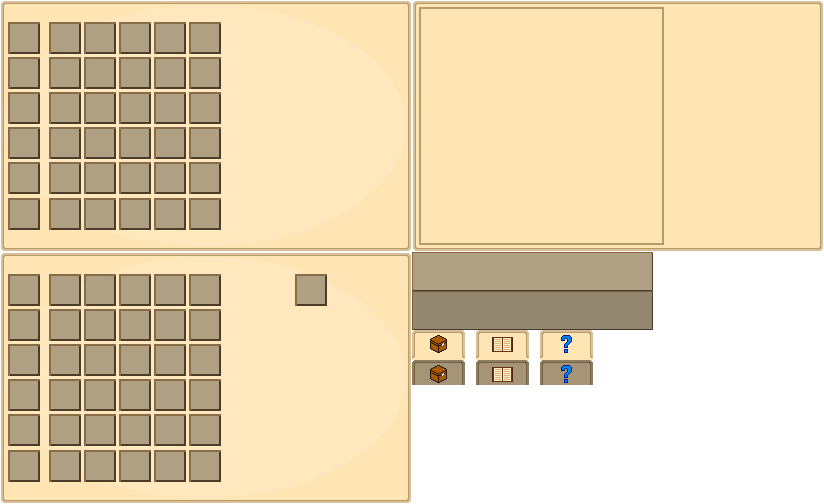
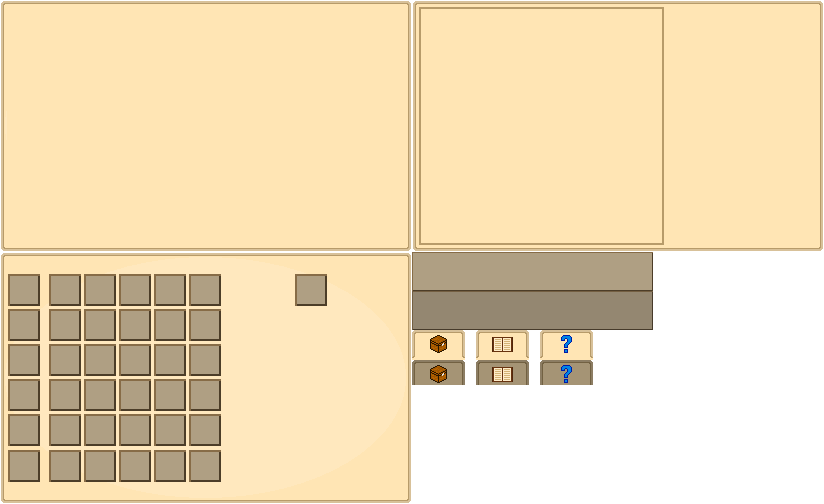
Start inventory items and slots

Changed region(s): [[0.0, 0.0298, 0.2731, 0.4762]]

diff --git a/src/net/egartley/beyondorigins/ingame/Inventory.java b/src/net/egartley/beyondorigins/ingame/Inventory.java
@@ -5,20 +5,40 @@ import net.egartley.beyondorigins.graphics.Sprite;
 import net.egartley.beyondorigins.objects.StaticEntity;
 
 import java.awt.*;
+import java.util.ArrayList;
 
 public class Inventory extends StaticEntity {
+
+    public int size = 36;
+    public ArrayList<InventorySlot> slots;
+    public ArrayList<GameItem> items;
 
     private Color backgroundColor = new Color(0, 0, 0, 152);
 
     public Inventory(Sprite sprite) {
         super("Inventory", sprite);
+        slots = new ArrayList<>();
+        items = new ArrayList<>();
+
+        for (int r = 0; r < (int) Math.sqrt(size); r++) {
+            for (int c = 0; c < (int) Math.sqrt(size); c++) {
+                slots.add(new InventorySlot(r, c));
+            }
+        }
+
+        items.add(new GameItem("Test Item", slots.get(3), null));
+        slots.get(3).item = items.get(0);
     }
 
     @Override
     public void render(Graphics graphics) {
         graphics.setColor(backgroundColor);
-        graphics.fillRect(0, 0, Game.WINDOW_WIDTH, Game.WINDOW_HEIGHT);
+        graphics.fillRect(0, 0, Game.WINDOW_WIDTH + 1, Game.WINDOW_HEIGHT + 1);
+
         graphics.drawImage(sprite.toBufferedImage(), 289, 145, null);
+
+        for (InventorySlot s : slots)
+            s.render(graphics);
     }
 
     @Override

diff --git a/src/net/egartley/beyondorigins/ingame/InventorySlot.java b/src/net/egartley/beyondorigins/ingame/InventorySlot.java
@@ -1,0 +1,32 @@
+package net.egartley.beyondorigins.ingame;
+
+import java.awt.*;
+
+public class InventorySlot {
+
+    public static final int BASE_X = 311, BASE_Y = 167, MARGIN = 3, SIZE = 32;
+
+    public int row, column, x, y;
+    public GameItem item;
+
+    public InventorySlot(int row, int column) {
+        this(null, row, column);
+    }
+
+    public InventorySlot(GameItem item, int row, int column) {
+        this.item = item;
+        this.row = row;
+        this.column = column;
+        // calculate in constructor instead of calculating the same thing every tick
+        x = (row * (SIZE + MARGIN)) + BASE_X;
+        y = (column * (SIZE + MARGIN)) + BASE_Y;
+    }
+
+    public void render(Graphics graphics) {
+        graphics.setColor(Color.GRAY);
+        graphics.fillRect(x, y, 32, 32);
+        if (item != null)
+            item.render(graphics);
+    }
+
+}

diff --git a/src/net/egartley/beyondorigins/entities/Player.java b/src/net/egartley/beyondorigins/entities/Player.java
@@ -123,7 +123,7 @@ public class Player extends AnimatedEntity implements Character {
         defaultBoundary = boundary;
         headBoundary = new EntityBoundary(this, 19, 18, new BoundaryPadding(0), new BoundaryOffset(0, 0, 0, 5));
         headBoundary.name = "Head";
-        bodyBoundary = new EntityBoundary(this, 30, 19, new BoundaryPadding(0), new BoundaryOffset(0, 16, 0, 0));
+        bodyBoundary = new EntityBoundary(this, 30, 17, new BoundaryPadding(0), new BoundaryOffset(0, 18, 0, 0));
         bodyBoundary.name = "Body";
         feetBoundary = new EntityBoundary(this, 17, 16, new BoundaryPadding(0), new BoundaryOffset(0, 29, 0, 6));
         feetBoundary.name = "Feet";

diff --git a/src/net/egartley/beyondorigins/ingame/GameItem.java b/src/net/egartley/beyondorigins/ingame/GameItem.java
@@ -1,0 +1,24 @@
+package net.egartley.beyondorigins.ingame;
+
+import net.egartley.beyondorigins.graphics.Sprite;
+
+import java.awt.*;
+
+public class GameItem {
+
+    public String name;
+    public Sprite sprite;
+    public InventorySlot slot;
+
+    public GameItem(String name, InventorySlot slot, Sprite sprite) {
+        this.name = name;
+        this.slot = slot;
+        this.sprite = sprite;
+    }
+
+    public void render(Graphics graphics) {
+        graphics.setColor(Color.BLACK);
+        graphics.fillOval(slot.x + 2, slot.y + 2, InventorySlot.SIZE - 4, InventorySlot.SIZE - 4);
+    }
+
+}

diff --git a/src/net/egartley/beyondorigins/objects/Map.java b/src/net/egartley/beyondorigins/objects/Map.java
@@ -24,7 +24,7 @@ public abstract class Map {
     public static MapSector currentSector;
 
     /**
-     * Creates a new map, and initializes {@link #sectors} with {@link ArrayList#ArrayList() ArrayList<>()}
+     * Creates a new map, and initializes {@link #sectors}
      *
      * @param id
      *         Name or identifier for the map

diff --git a/src/net/egartley/beyondorigins/graphics/Sprite.java b/src/net/egartley/beyondorigins/graphics/Sprite.java
@@ -17,7 +17,7 @@ import java.util.ArrayList;
 public class Sprite {
 
     /**
-     * All of the possible frames that the sprite could use, which are derived from {@link #strip}
+     * All of the possible frames that the sprite could use
      *
      * @see AnimatedEntity
      * @see StaticEntity

diff --git a/src/net/egartley/beyondorigins/graphics/Animation.java b/src/net/egartley/beyondorigins/graphics/Animation.java
@@ -8,7 +8,7 @@ import java.awt.image.BufferedImage;
 import java.awt.image.ImageObserver;
 
 /**
- * Represents a collection of {@link AnimationFrame} objects, used for animating sprites
+ * Represents a collection of images, used for animating sprites
  *
  * @see Sprite
  * @see AnimatedEntity
